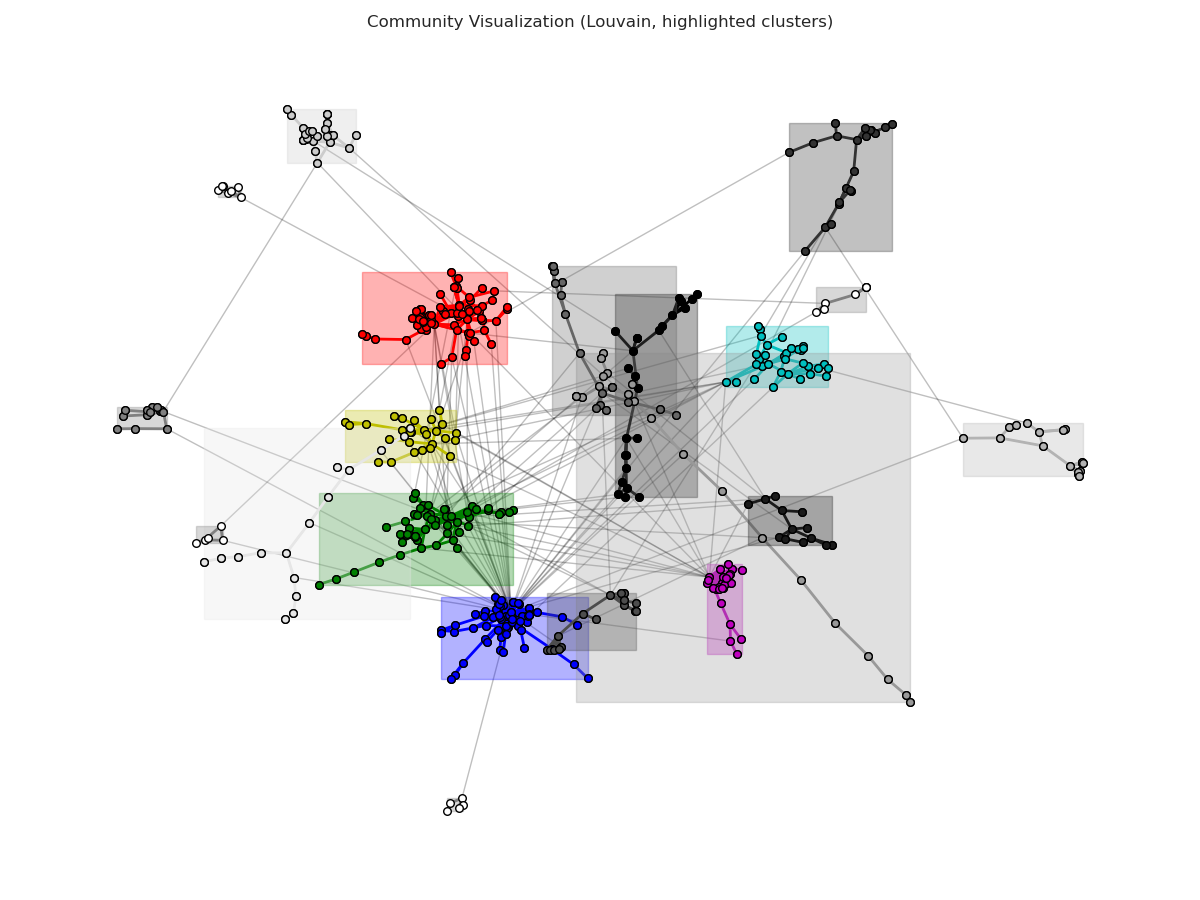
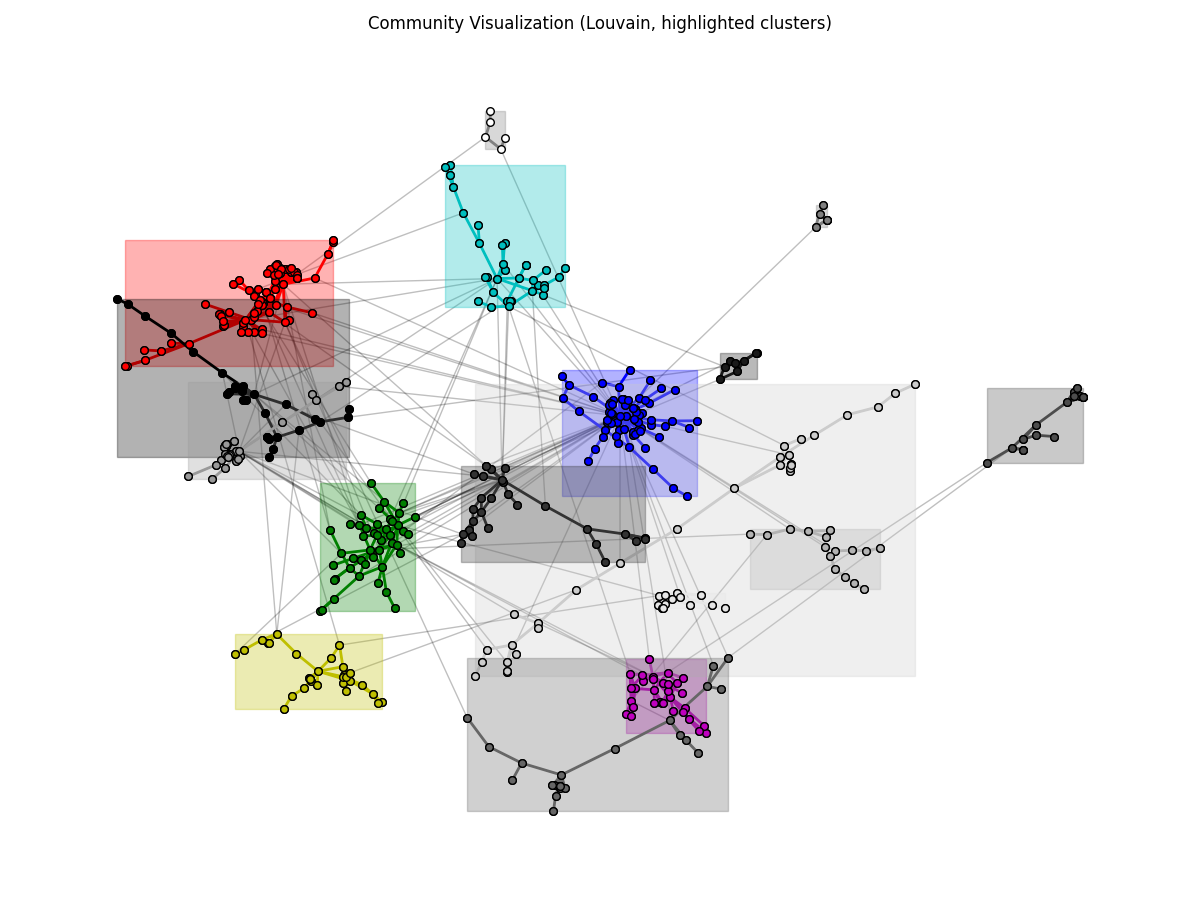
fix node order of max-subgraph, add overlap community visualization

diff --git a/libs/community_detection.py b/libs/community_detection.py
@@ -1,7 +1,7 @@
 from tkinter import Label
 import networkx as nx
 import matplotlib.pyplot as plt
-from cdlib import algorithms, viz
+from cdlib import algorithms, viz, evaluation
 import random
 from PIL import Image, ImageTk
 import numpy as np
@@ -53,7 +53,7 @@ def detect_and_draw_communities(G, save_path=None, show=True, image_label:Label=
     ax1.set_title('Community Size and Density (Louvain, sorted)')
     # 右侧：着色网络图
     # viz.plot_network_highlighted_clusters(G, communities,pos)
-    plot_network_highlighted_clusters(G, communities,pos, ax=ax2)
+    plot_network_highlighted_clusters(G, communities, pos, node_size=30, ax=ax2)
 
     # nx.draw_networkx_nodes(G, pos, node_color=node_colors, node_size=20, ax=ax2)
     # nx.draw_networkx_edges(G, pos, alpha=0.3, ax=ax2)
@@ -69,5 +69,79 @@ def detect_and_draw_communities(G, save_path=None, show=True, image_label:Label=
         # 只更新右侧着色图像到界面
         draw_graph(G, save_path='./data/temp_community_detection.png', is_show=False, pos=pos, show_labels=True, node_color=node_colors)
         image_color = ImageTk.PhotoImage(Image.open('./data/temp_community_detection.png').resize((1200,600)))
+        image_label.config(image=image_color)
+        image_label.image = image_color  # 防止被垃圾回收
+
+def detect_and_draw_overlapping_communities(G, save_path=None, show=True, image_label:Label=None, seed=None):
+    """
+    对图G进行社区检测（Louvain），并并列输出社区规模密度折线图和着色网络图。
+    :param G: networkx.Graph
+    :param save_path: 保存图片路径（可选）
+    :param show: 是否直接plt.show()
+    :return: None
+    """
+    # 社区检测
+    number_communities = 33
+    communities = algorithms.conga(G, number_communities=number_communities)
+
+
+    # 输出整体扩展模块度（EQ）
+    eq = evaluation.erdos_renyi_modularity(G, communities).score
+    print(f"EQ (CONGA): {eq:.4f}")
+
+    # 统计社区数和每个社区的节点数（已按规模从大到小排序）
+    community_list = sorted(communities.communities, key=len, reverse=True)
+    community_sizes = [len(c) for c in community_list]
+    community_densities = [nx.density(G.subgraph(c)) for c in community_list]
+    print(f"Number of communities: {len(community_list)}")
+    for i, (c, d) in enumerate(zip(community_list, community_densities)):
+        print(f"Community {i+1}: {len(c)} nodes, density={d:.4f}")
+    # --- 着色网络图数据准备 ---
+    pos = G.pos if hasattr(G, 'pos') else nx.spring_layout(G, seed=seed)
+    color_map = {}
+    palette = ["#%06x" % random.randint(0, 0xFFFFFF) for _ in range(len(community_list))]
+    for idx, comm in enumerate(community_list):
+        for node in comm:
+            color_map[node] = palette[idx]
+    node_colors = [color_map.get(node, "#cccccc") for node in G.nodes()]
+    # --- 并列输出 ---
+    fig, (ax1, ax2) = plt.subplots(1, 2, figsize=(16,6))
+    # 左侧：社区规模和密度双y轴折线
+    x = np.arange(1, len(community_sizes)+1)
+    color1 = 'tab:blue'
+    color2 = 'tab:orange'
+    ax1.set_xlabel('Community Index (sorted by size)')
+    ax1.set_ylabel('Community Size', color=color1)
+    ln1 = ax1.plot(x, community_sizes, color=color1, marker='o', label='Community Size')
+    ax1.tick_params(axis='y', labelcolor=color1)
+    ax1.set_xticks(x)
+
+    ax1b = ax1.twinx()
+    ax1b.set_ylabel('Density', color=color2)
+    ln2 = ax1b.plot(x, community_densities, color=color2, marker='s', label='Community Density')
+    ax1b.tick_params(axis='y', labelcolor=color2)
+    ax1b.set_xticks(x)
+
+    lns = ln1 + ln2
+    labels = [l.get_label() for l in lns]
+    ax1.legend(lns, labels, loc='upper right')
+
+    # 使用 cdlib.viz.plot_network_highlighted_clusters 绘制社区高亮图
+    # position = nx.spring_layout(G, seed=42)
+    plot_network_highlighted_clusters(G, communities, pos, node_size=30, ax=ax2)
+
+
+    ax2.set_title('Community Visualization (Louvain)')
+    ax2.axis('off')
+    plt.tight_layout()
+    if save_path:
+        plt.savefig(save_path)
+        print(f"Community detection result saved to {save_path}")
+    if show:
+        plt.show()
+    if image_label is not None:
+        # 只更新右侧着色图像到界面
+        draw_graph(G, save_path='./data/temp_community_overlap_detection.png', is_show=False, pos=pos, show_labels=True, node_color=node_colors)
+        image_color = ImageTk.PhotoImage(Image.open('./data/temp_community_overlap_detection.png').resize((1200,600)))
         image_label.config(image=image_color)
         image_label.image = image_color  # 防止被垃圾回收

diff --git a/interface.py b/interface.py
@@ -74,17 +74,9 @@ def _build_graph():
     global G
     seed = dataset_var.get()
     G = None
-    G, nodes = build_graph('./data/git_web_ml/musae_git_edges.csv', 2000, seed)
-    print("before: ", G)
-    G = find_subgraph(G)
-    print("after: ",G)
+    G = build_graph('./data/git_web_ml/musae_git_edges.csv', 2000, seed)
 
-    G = reindex_graph(G)
-    # 记录pos，用于后续上色
-    # pos = nx.spring_layout(G, seed=seed,k=0.15)
-    pos = nx.spring_layout(G, seed=seed)
-    G.pos = pos
-    draw_graph(G, f'./data/network-{seed}.png', False, pos)
+    draw_graph(G, f'./data/network-{seed}.png', False, G.pos)
     _image = ImageTk.PhotoImage(Image.open(f'./data/network-{seed}.png').resize((1200,600)))     # .resize((800,400))
 
     image_label.configure(image = _image)
@@ -241,6 +233,13 @@ def run_community_detection():
         return
     community_detection.detect_and_draw_communities(G, 
                                                     save_path=None, show=True,image_label=image_label, seed=seed)
+def run_overlapping_community_detection():
+    global G
+    if G is None or len(G.nodes) == 0:
+        print("No graph loaded.")
+        return
+    community_detection.detect_and_draw_overlapping_communities(G, 
+                                                    save_path=None, show=True,image_label=image_label, seed=seed)
 
 ##############################################################################################
 tk.Label(operation1, text="Random Seed",font=20).grid(padx=10, pady=10,row=0, column=0, sticky="w")
@@ -281,7 +280,10 @@ clustering_avg_output = tk.Label(operation1,width=10, text=0, background='white'
 clustering_avg_output.grid(row=4, column=1, pady=5)
 tk.Button(operation1, text="Clustering coefficient distribution", command=show_coefficient_distribution).grid(row=4, column=2, padx=(15,0), pady=5,columnspan=2)
 
-tk.Button(operation1, text="Community Detection", command=run_community_detection).grid(row=5, column=1, padx=5)
+community_Frame = Frame(operation1)
+community_Frame.grid(row=5, column=0, columnspan=4)
+tk.Button(community_Frame, text="Non-overlapping Communities", command=run_community_detection).grid(row=0, column=1, padx=(20,10), pady=10)
+tk.Button(community_Frame, text="Overlapping Communities", command=run_overlapping_community_detection).grid(row=0, column=2, padx=10, pady=10)
 
 ##############################################################################################
 # Degree related layout

diff --git a/analysis/overlapping_community_detection.py b/analysis/overlapping_community_detection.py
@@ -13,8 +13,8 @@ from cdlib import algorithms, evaluation, viz
 
 # 1. 构建图
 graph_path = './data/git_web_ml/musae_git_edges.csv'
-G, nodes = build_graph(graph_path)
-G = G.subgraph(sorted(nx.connected_components(G), key=len, reverse=True)[0])
+G = build_graph(graph_path)
+# G = G.subgraph(sorted(nx.connected_components(G), key=len, reverse=True)[0])
 
 print(f"Number of nodes in G: {G.number_of_nodes()}")
 
@@ -60,8 +60,8 @@ for i, (c, d) in enumerate(zip(community_list, community_densities)):
     print(f"Community {i+1}: {len(c)} nodes, density={d:.4f}")
 
 # 使用 cdlib.viz.plot_network_highlighted_clusters 绘制社区高亮图
-position = nx.spring_layout(G, seed=42)
-viz.plot_network_highlighted_clusters(G, communities, position=position, figsize=(12, 9), node_size=30)
+# position = nx.spring_layout(G, seed=42)
+viz.plot_network_highlighted_clusters(G, communities, position=G.pos, figsize=(12, 9), node_size=30)
 plt.title(f'Overlapping Community Visualization (CONGA, highlighted clusters, k={number_communities})')
 plt.tight_layout()
 plt.savefig('./data/overlapping_community_detection_highlighted_clusters.png')

diff --git a/analysis/community_detection.py b/analysis/community_detection.py
@@ -14,8 +14,8 @@ from cdlib import evaluation
 from cdlib import viz
 
 # 1. 构建图
-G, nodes = build_graph('./data/git_web_ml/musae_git_edges.csv')
-G = G.subgraph(sorted(nx.connected_components(G), key=len, reverse=True)[0])
+G = build_graph('./data/git_web_ml/musae_git_edges.csv')
+# G = G.subgraph(sorted(nx.connected_components(G), key=len, reverse=True)[0])
 
 print(f"Number of nodes in G: {G.number_of_nodes()}")
 
@@ -37,8 +37,8 @@ for i, (c, d) in enumerate(zip(community_list, community_densities)):
     print(f"Community {i+1}: {len(c)} nodes, density={d:.4f}")
 
 # 使用 cdlib.viz.plot_network_highlighted_clusters 绘制社区高亮图
-position = nx.spring_layout(G, seed=42)
-viz.plot_network_highlighted_clusters(G, communities, position=position, figsize=(12, 9), node_size=30)
+# position = nx.spring_layout(G, seed=42)
+viz.plot_network_highlighted_clusters(G, communities, position=G.pos, figsize=(12, 9), node_size=30)
 plt.title('Community Visualization (Louvain, highlighted clusters)')
 plt.tight_layout()
 plt.savefig('./data/community_detection_highlighted_clusters.png')

diff --git a/libs/utils.py b/libs/utils.py
@@ -29,7 +29,18 @@ def build_graph(data_path, num_nodes=2000, seed=2024):
         removed_node = random.sample(list(G.nodes), 1)[0]
         G.remove_node(removed_node)
 
-    return G, nodes
+    print("before: ", G)
+    G = find_subgraph(G)
+    print("after: ",G)
+
+    # reindex the graph to ensure node IDs are continuous and start from 0
+    G = reindex_graph(G)
+
+    # 记录pos，用于后续上色
+    pos = nx.spring_layout(G, seed=seed)
+    G.pos = pos
+
+    return G
 
 # def build_graph(data_path, num_sample=10000, seed=2024,):
 #     G = nx.Graph()
@@ -211,7 +222,7 @@ def reindex_graph(G):
 
     # 获取原始节点列表
     original_nodes = list(G.nodes())
-
+    original_nodes.sort()  # 确保节点按字母顺序排序
     # 创建一个新的图
     new_G = nx.Graph()
 

diff --git a/analysis/intentional_attack_analysis.py b/analysis/intentional_attack_analysis.py
@@ -14,8 +14,8 @@ from libs.degree import intentional_attack_node_degree
 from libs.utils import build_graph
 
 # 构建并保存未被攻击的初始图
-g_original, nodes = build_graph('./data/git_web_ml/musae_git_edges.csv')
-g_original = g_original.subgraph(sorted(nx.connected_components(g_original), key=len, reverse=True)[0])
+g_original = build_graph('./data/git_web_ml/musae_git_edges.csv')
+# g_original = g_original.subgraph(sorted(nx.connected_components(g_original), key=len, reverse=True)[0])
 
 # 初始化攻击次数
 attack_counts = 200

diff --git a/analysis/random_attack_analysis.py b/analysis/random_attack_analysis.py
@@ -12,8 +12,8 @@ sys.path.append(str(BASE_DIR))
 from libs.utils import build_graph
 
 # 构建并保存未被攻击的初始图
-g_original, nodes = build_graph('./data/git_web_ml/musae_git_edges.csv')
-g_original = g_original.subgraph(sorted(nx.connected_components(g_original), key=len, reverse=True)[0])
+g_original = build_graph('./data/git_web_ml/musae_git_edges.csv')
+# g_original = g_original.subgraph(sorted(nx.connected_components(g_original), key=len, reverse=True)[0])
 
 # 初始化攻击次数
 attack_counts = 200

diff --git a/tmp/dynamic_interface.py b/tmp/dynamic_interface.py
@@ -234,8 +234,8 @@ class NodeAttacker:
 
 if __name__ == '__main__':
     root = tk.Tk()
-    G, nodes = build_graph('./data/git_web_ml/musae_git_edges.csv')
-    G = G.subgraph(sorted(nx.connected_components(G), key=len, reverse=True)[0])
+    G = build_graph('./data/git_web_ml/musae_git_edges.csv')
+    # G = G.subgraph(sorted(nx.connected_components(G), key=len, reverse=True)[0])
     G = nx.Graph(G)
 
     app = GraphVisualizer(root, graph_seed=42, G_original=G)

diff --git a/analysis/static_metrics_analysis.py b/analysis/static_metrics_analysis.py
@@ -14,8 +14,8 @@ sys.path.append(str(BASE_DIR))
 from libs.utils import build_graph
 
 # build graph
-g, nodes = build_graph('./data/git_web_ml/musae_git_edges.csv')
-g = g.subgraph(sorted(nx.connected_components(g), key=len, reverse=True)[0])
+g = build_graph('./data/git_web_ml/musae_git_edges.csv')
+# g = g.subgraph(sorted(nx.connected_components(g), key=len, reverse=True)[0])
 print(g)
 
 # draw graph

diff --git a/tmp/test-ljx.py b/tmp/test-ljx.py
@@ -23,8 +23,7 @@ import numpy as np
 # draw_betweenness_centrality(H)
 
 for i in range(10):
-    G, nodes = build_graph('./data/git_web_ml/musae_git_edges.csv', 200, i)
-    G = find_subgraph(G)
+    G = build_graph('./data/git_web_ml/musae_git_edges.csv', 200, i)
     print(nx.average_shortest_path_length(G))
     print(nx.diameter(G))
     print(G)

diff --git a/tmp/draw.py b/tmp/draw.py
@@ -8,7 +8,7 @@ sys.path.append(str(BASE_DIR))
 
 from libs.utils import build_graph
 
-G, nodes = build_graph('./data/git_web_ml/musae_git_edges.csv', 2000)
+G = build_graph('./data/git_web_ml/musae_git_edges.csv', 2000)
 print(G)
 
 # 创建Plotly图表
